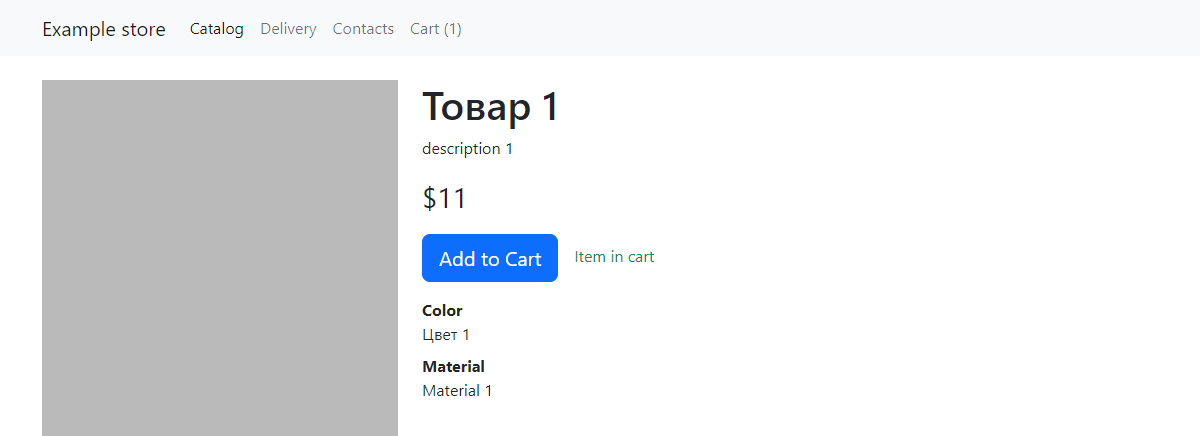
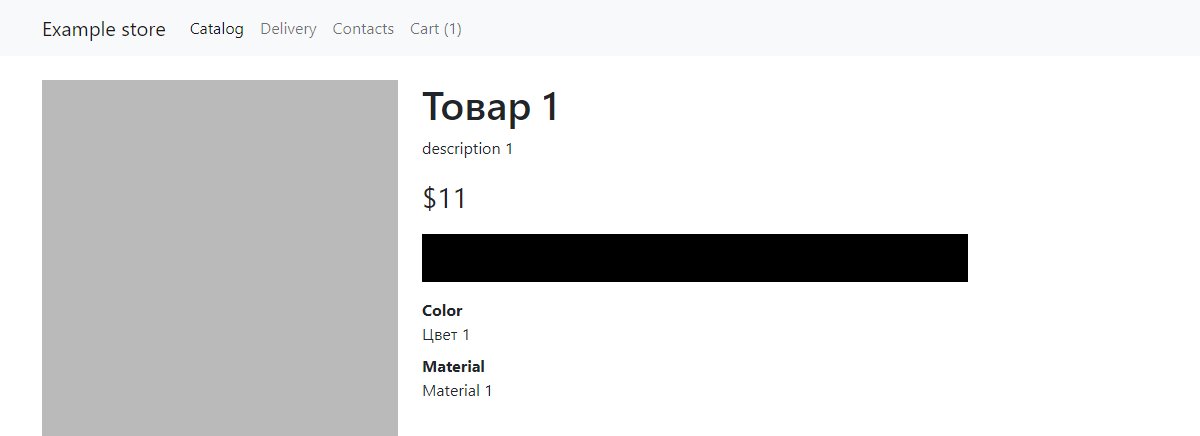
test base dynamic pages view

Changed region(s): [[0.3392, 0.5367, 0.8325, 0.656]]

diff --git a/test/hermione/responsive.hermione.ts b/test/hermione/responsive.hermione.ts
@@ -79,37 +79,49 @@ describe('pages are responsive', () => {
     it('1400', async function () {
       await this.browser.url('http://localhost:3000/hw/store/catalog/1')
       this.browser.setWindowSize(1400, (await this.browser.getWindowSize()).height)
-      await this.browser.assertView('plain', 'body')
+      await this.browser.assertView('plain', 'body', {
+        ignoreElements: ['.ProductDetails-AddToCart-Container'],
+      })
     })
 
     it('1200', async function () {
       await this.browser.url('http://localhost:3000/hw/store/catalog/1')
       this.browser.setWindowSize(1200, (await this.browser.getWindowSize()).height)
-      await this.browser.assertView('plain', 'body')
+      await this.browser.assertView('plain', 'body', {
+        ignoreElements: ['.ProductDetails-AddToCart-Container'],
+      })
     })
 
     it('992', async function () {
       await this.browser.url('http://localhost:3000/hw/store/catalog/1')
       this.browser.setWindowSize(992, (await this.browser.getWindowSize()).height)
-      await this.browser.assertView('plain', 'body')
+      await this.browser.assertView('plain', 'body', {
+        ignoreElements: ['.ProductDetails-AddToCart-Container'],
+      })
     })
 
     it('768', async function () {
       await this.browser.url('http://localhost:3000/hw/store/catalog/1')
       this.browser.setWindowSize(768, (await this.browser.getWindowSize()).height)
-      await this.browser.assertView('plain', 'body')
+      await this.browser.assertView('plain', 'body', {
+        ignoreElements: ['.ProductDetails-AddToCart-Container'],
+      })
     })
 
     it('576', async function () {
       await this.browser.url('http://localhost:3000/hw/store/catalog/1')
       this.browser.setWindowSize(576, (await this.browser.getWindowSize()).height)
-      await this.browser.assertView('plain', 'body')
+      await this.browser.assertView('plain', 'body', {
+        ignoreElements: ['.ProductDetails-AddToCart-Container'],
+      })
     })
 
     it('320', async function () {
       await this.browser.url('http://localhost:3000/hw/store/catalog/1')
       this.browser.setWindowSize(320, (await this.browser.getWindowSize()).height)
-      await this.browser.assertView('plain', 'body')
+      await this.browser.assertView('plain', 'body', {
+        ignoreElements: ['.ProductDetails-AddToCart-Container'],
+      })
     })
   })
 

diff --git a/src/client/components/ProductDetails.tsx b/src/client/components/ProductDetails.tsx
@@ -30,7 +30,7 @@ export const ProductDetails: React.FC<ProductDetailsProps> = ({ product }) => {
                 <h1 className={bem("Name")}>{product.name}</h1>
                 <p className={bem("Description")}>{product.description}</p>
                 <p className={bem("Price", ['fs-3'])}>${product.price}</p>
-                <p>
+                <p className="ProductDetails-AddToCart-Container">
                     <button className={bem("AddToCart", ['btn', 'btn-primary', btnSizeClass])} onClick={onClick}>Add to Cart</button>
                     <CartBadge id={product.id} />
                 </p>

diff --git a/test/hermione/base-view-dynamic-pages.hermione.ts b/test/hermione/base-view-dynamic-pages.hermione.ts
@@ -1,0 +1,17 @@
+describe('base dynamic pages view', () => {
+  it('catalog', async function () {
+    await this.browser.url('http://localhost:3000/hw/store/catalog')
+    await this.browser.assertView('plain', 'body')
+  })
+
+  it('product', async function () {
+    await this.browser.url('http://localhost:3000/hw/store/catalog/1')
+    await this.browser.assertView('plain', 'body')
+  })
+
+  it('cart', async function () {
+    await this.browser.url('http://localhost:3000/hw/store/cart')
+    await this.browser.assertView('plain', 'body')
+  })
+})
+
